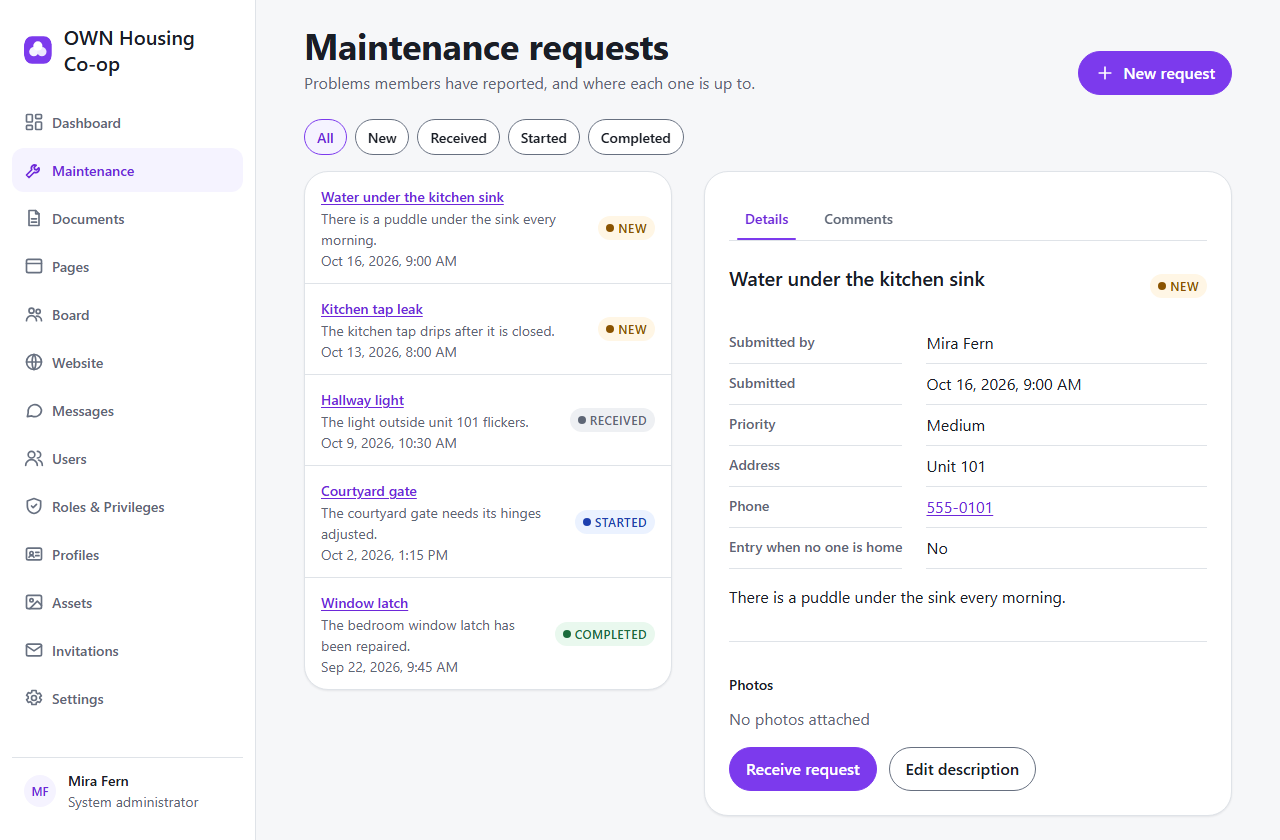
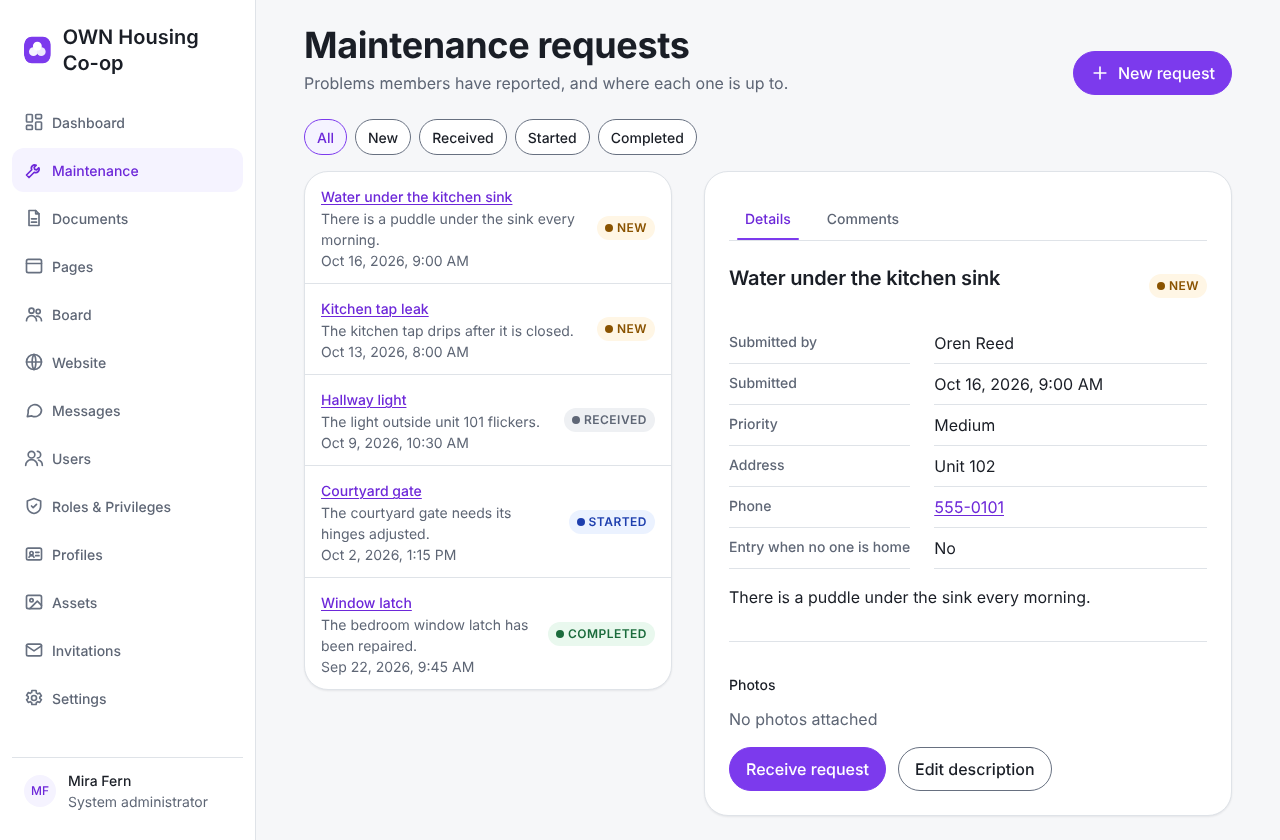
Rebuild journeys 01 and 02 on the admin member view
Claude-Session: https://claude.ai/code/session_01NbBQnG1jNvCqwuLyCCrvxd

diff --git a/docs/videos/journeys/01-submit-maintenance-request/slides.html b/docs/videos/journeys/01-submit-maintenance-request/slides.html
@@ -28,17 +28,17 @@
   </ol>
 </section>
 
-<section id="list" data-part="1" data-cue="Start on the Requests page.">
+<section id="list" data-part="1" data-cue="First, sign in on the co-op's members' site.">
   <div class="heading-row"><h2>1 · Tap “Requests”</h2></div>
   <div class="pics">
-    <figure><img class="shot h640" src="images/public-maintenance-360.png" alt="The member's Requests page on a phone, listing four requests with their status"><figcaption>Every request you sent, and where it is</figcaption></figure>
+    <figure><img class="shot h640" src="images/member-maintenance-360.png" alt="The member's Maintenance requests page on a phone, listing Bathroom fan is noisy, marked New, and Window latch, marked Completed"><figcaption>“Requests” on a phone, “Maintenance” on a computer</figcaption></figure>
   </div>
 </section>
 
-<section id="open" data-part="1" data-cue="To report something new, tap Create Request.">
-  <div class="heading-row"><h2>2 · Tap “Create Request”</h2></div>
+<section id="open" data-part="1" data-cue="To report something new, tap New request.">
+  <div class="heading-row"><h2>2 · Tap “New request”</h2></div>
   <div class="pics">
-    <figure><img class="shot h640" src="images/public-maintenance-create-360.png" alt="The empty Create New Request form on a phone"><figcaption>A short form opens</figcaption></figure>
+    <figure><img class="shot h640" src="images/member-maintenance-create-360.png" alt="The empty New maintenance request form on a phone"><figcaption>A short form opens</figcaption></figure>
   </div>
 </section>
 
@@ -48,30 +48,29 @@
     <ol class="steps">
       <li><span class="num">1</span>A title</li>
       <li><span class="num">2</span>Your own words</li>
-      <li><span class="num">3</span>How urgent, and what kind</li>
     </ol>
-    <figure><img class="shot h640" src="images/public-maintenance-create-filled-360.png" alt="The form filled in: title Water under the kitchen sink, a description, priority Medium and category General, with no photos yet"><figcaption>Plain words are fine</figcaption></figure>
+    <figure><img class="shot h640" src="images/member-maintenance-create-filled-360.png" alt="The form filled in: title Water under the kitchen sink and what is wrong, with no photos yet"><figcaption>Plain words are fine</figcaption></figure>
   </div>
 </section>
 
 <section id="photos" data-part="1" data-cue="If you like, add a photo or two.">
   <div class="heading-row"><h2>4 · Add a photo, if you like</h2></div>
   <div class="pics">
-    <figure><img class="shot h640" src="images/public-maintenance-create-photos-1280.png" alt="The form with one chosen photo, under-sink.jpg, and a Remove button"><figcaption>“Choose photos”, and “Remove” if one is wrong</figcaption></figure>
+    <figure><img class="shot h640" src="images/member-maintenance-create-photos-1280.png" alt="The form with one chosen photo, under-sink.jpg, and a Remove button"><figcaption>“Add photos”, and “Remove” if one is wrong</figcaption></figure>
   </div>
 </section>
 
-<section id="send" data-part="1" data-cue="When you are ready, tap Submit Request.">
-  <div class="heading-row"><h2>5 · Tap “Submit Request”</h2></div>
+<section id="send" data-part="1" data-cue="When you are ready, tap Send request.">
+  <div class="heading-row"><h2>5 · Tap “Send request”</h2></div>
   <div class="pics">
-    <figure><img class="shot h640" src="images/public-maintenance-create-sending-1280.png" alt="The filled-in form with its button showing Sending…"><figcaption>The button says “Sending…”</figcaption></figure>
+    <figure><img class="shot h640" src="images/member-maintenance-create-sending-1280.png" alt="The filled-in form with its button showing Sending…"><figcaption>The button says “Sending…”</figcaption></figure>
   </div>
 </section>
 
 <section id="new" data-part="2" data-cue="Your request now shows on your list, marked New.">
   <div class="heading-row"><h2>Your request, marked “New”</h2></div>
   <div class="pics">
-    <figure><img class="shot h640" src="images/public-maintenance-new-360.png" alt="The Requests page on a phone, New chosen, with Water under the kitchen sink at the top, marked New"><figcaption>Open it any time to follow along</figcaption></figure>
+    <figure><img class="shot h640" src="images/member-maintenance-new-360.png" alt="The Maintenance requests page on a phone with Water under the kitchen sink at the top, marked New"><figcaption>Open it any time to follow along</figcaption></figure>
   </div>
 </section>
 
@@ -86,7 +85,7 @@
   <h2>In short</h2>
   <ol class="steps">
     <li><span class="num">1</span>Tap “Requests”</li>
-    <li><span class="num">2</span>Tap “Create Request”</li>
+    <li><span class="num">2</span>Tap “New request”</li>
     <li><span class="num">3</span>Say what is wrong, add a photo, send</li>
   </ol>
 </section>

diff --git a/docs/videos/journeys/02-follow-a-maintenance-request/slides.html b/docs/videos/journeys/02-follow-a-maintenance-request/slides.html
@@ -28,38 +28,38 @@
   </ol>
 </section>
 
-<section id="labels" data-part="1" data-cue="Tap Requests at the bottom of the screen.">
+<section id="labels" data-part="1" data-cue="Tap Requests at the bottom of the screen, or Maintenance in the menu on a computer.">
   <div class="heading-row"><h2>1 · Tap “Requests”</h2></div>
   <div class="pics">
-    <figure><img class="shot h640" src="images/public-maintenance-360.png" alt="The Requests page on a phone, listing four requests labelled New, Received, Started and Done"><figcaption>New, Received, Started, Done</figcaption></figure>
+    <figure><img class="shot h640" src="images/member-maintenance-360.png" alt="The Maintenance requests page on a phone, listing Bathroom fan is noisy, labelled New, and Window latch, labelled Completed"><figcaption>New, Received, Started, Completed</figcaption></figure>
   </div>
 </section>
 
 <section id="filter" data-part="1" data-cue="To see only some of them">
   <div class="heading-row"><h2>2 · Show only some</h2></div>
   <div class="pics">
-    <figure><img class="shot h640" src="images/public-maintenance-started-360.png" alt="The Requests page with the Started button chosen, showing one request: Courtyard gate"><figcaption>Tap “Started” to see work under way</figcaption></figure>
+    <figure><img class="shot h640" src="images/member-maintenance-completed-360.png" alt="The Maintenance requests page with the Completed button chosen, showing one request: Window latch"><figcaption>Tap “Completed” to see finished repairs</figcaption></figure>
   </div>
 </section>
 
 <section id="open" data-part="2" data-cue="Tap a request to open it.">
   <div class="heading-row"><h2>3 · Tap a request</h2></div>
   <div class="pics">
-    <figure><img class="shot h640" src="images/public-maintenance-detail-360.png" alt="The Kitchen tap leak request open on a phone, labelled New and High, with a comment"><figcaption>Its title, its label, and your words</figcaption></figure>
+    <figure><img class="shot h640" src="images/member-maintenance-detail-1280.png" alt="The Bathroom fan is noisy request open, labelled New, with who sent it, when, the address, the phone number and the description"><figcaption>Its title, its label, and your words</figcaption></figure>
   </div>
 </section>
 
 <section id="comments" data-part="2" data-cue="Under Comments, you and the office can leave notes for each other.">
   <div class="heading-row"><h2>4 · Read and reply</h2></div>
   <div class="pics">
-    <figure><img class="shot h640" src="images/public-maintenance-detail-1280.png" alt="The open request showing a comment from Mira Fern: It drips most at night. I have put a bowl under it for now, with an Add a comment box and a Send button"><figcaption>Type in “Add a comment…”, then tap “Send”</figcaption></figure>
+    <figure><img class="shot h640" src="images/member-maintenance-comments-1280.png" alt="The Comments tab of the open request showing a comment from Dolores Nakamura: We will look at the fan on Thursday morning, with an Add a comment box and a Send button"><figcaption>Type in “Add a comment”, then tap “Send”</figcaption></figure>
   </div>
 </section>
 
 <section id="photos" data-part="3" data-cue="Any photos you added show under Photos.">
   <div class="heading-row"><h2>5 · Your photos</h2></div>
   <div class="pics">
-    <figure><img class="shot h640" src="images/public-maintenance-detail-photos-360.png" alt="The open request showing two photos of the leaking tap and sink, with an Add a photo button"><figcaption>Tap “Add a photo” to add another</figcaption></figure>
+    <figure><img class="shot h640" src="images/member-maintenance-detail-photos-1280.png" alt="The open request showing a photo under Photos, with an Add a photo button"><figcaption>Tap “Add a photo” to add another</figcaption></figure>
   </div>
 </section>
 

diff --git a/docs/videos/journeys/01-submit-maintenance-request/README.md b/docs/videos/journeys/01-submit-maintenance-request/README.md
@@ -1,6 +1,6 @@
 # Journey 01 · Submit a maintenance request
 
-> **Runtime:** about 1 min 45 s · **Audience:** members, many of whom barely use the web · **Prerequisites:** a member account
+> **Runtime:** about 1 min 50 s · **Audience:** members, many of whom barely use the web · **Prerequisites:** a member account
 
 **Video:** [01-submit-maintenance-request.mp4](01-submit-maintenance-request.mp4) · [Slides](slides.html) · **Audio:** [01-submit-maintenance-request.mp3](01-submit-maintenance-request.mp3) · [Transcript](script.md)
 
@@ -13,7 +13,7 @@ member through it, step by step, in plain words.
 
 By the end, the viewer can:
 
-- Find the Requests page and open the Create Request form.
+- Sign in on the members' site, find the Requests page and tap New request.
 - Fill in a request and, if she likes, add photos.
 - Tell that her request was sent and that the office sees it.
 
@@ -21,28 +21,31 @@ By the end, the viewer can:
 
 | File | What to show |
 | --- | --- |
-| `images/public-maintenance-360.png` | The member's Requests page on a phone |
-| `images/public-maintenance-create-360.png` | The empty Create New Request form |
-| `images/public-maintenance-create-filled-360.png` | The form filled in, before any photo |
-| `images/public-maintenance-create-photos-1280.png` | The form with a photo chosen |
-| `images/public-maintenance-create-sending-1280.png` | The button showing "Sending…" |
-| `images/public-maintenance-new-360.png` | Water under the kitchen sink on the list, marked New |
+| `images/member-maintenance-360.png` | The member's Requests page on a phone (admin site, member view) |
+| `images/member-maintenance-create-360.png` | The empty New maintenance request form |
+| `images/member-maintenance-create-filled-360.png` | The form filled in, before any photo |
+| `images/member-maintenance-create-photos-1280.png` | The form with a photo chosen |
+| `images/member-maintenance-create-sending-1280.png` | The button showing "Sending…" |
+| `images/member-maintenance-new-360.png` | Water under the kitchen sink on the list, marked New |
 | `images/admin-maintenance-detail-new-1280.png` | The office's view of Water under the kitchen sink, with Receive |
 
 All screens are static design mocks under `docs/mocks/`, captured by
 `tools/video-build/capture-mocks.py` from the list in `images/shots.json`.
-The mocks have no state for a request the member has just sent, so
-`shots.json` adds Water under the kitchen sink to the list and the office
-view with a short script before the screenshot.
+Members sign in on the admin site and see only the member areas (ADR 0012),
+so the member screens come from the `admin-member-*` mocks. The mocks have no
+state for a request the member has just sent, so `shots.json` fills in the
+form, renames the chosen photo, adds Water under the kitchen sink to the list,
+and puts Oren Reed of unit 102 on the office view, with a short script before
+each screenshot.
 
 ## Run sheet
 
 | Time | Segment | Content |
 | --- | --- | --- |
 | 00:00-00:17 | Welcome | Title; telling the office should be easy |
-| 00:17-01:10 | Send a request | Requests, Create Request, fill in, photos, Submit |
-| 01:10-01:30 | What happens next | Marked New; the office sees it and taps Receive |
-| 01:30-01:45 | In short | Three steps, thank you |
+| 00:17-01:14 | Send a request | Sign in, Requests, New request, fill in, photos, Send request |
+| 01:14-01:35 | What happens next | Marked New; the office sees it and taps Receive |
+| 01:35-01:50 | In short | Three steps, thank you |
 
 ## Demo commands
 

diff --git a/docs/videos/journeys/02-follow-a-maintenance-request/README.md b/docs/videos/journeys/02-follow-a-maintenance-request/README.md
@@ -1,6 +1,6 @@
 # Journey 02 · Follow a maintenance request
 
-> **Runtime:** about 1 min 38 s · **Audience:** members, many of whom barely use the web · **Prerequisites:** a member account with at least one request
+> **Runtime:** about 1 min 45 s · **Audience:** members, many of whom barely use the web · **Prerequisites:** a member account with at least one request
 
 **Video:** [02-follow-a-maintenance-request.mp4](02-follow-a-maintenance-request.mp4) · [Slides](slides.html) · **Audio:** [02-follow-a-maintenance-request.mp3](02-follow-a-maintenance-request.mp3) · [Transcript](script.md)
 
@@ -12,31 +12,37 @@ After a member reports a repair, she wants to know how it is going. This video s
 
 By the end, the viewer can:
 
-- Find her requests and read the New, Received, Started and Done labels.
-- Use the All, New, Started and Done buttons to show only some requests.
+- Find her requests and read the New, Received, Started and Completed labels.
+- Use the All, New, Received, Started and Completed buttons to show only some requests.
 - Open a request, read the comments, reply, and add a photo.
 
 ## Code / assets on screen
 
 | File | What to show |
 | --- | --- |
-| `images/public-maintenance-360.png` | The Requests page with four labelled requests |
-| `images/public-maintenance-started-360.png` | The list showing only Started requests |
-| `images/public-maintenance-detail-360.png`, `-1280.png` | An open request with a comment |
-| `images/public-maintenance-detail-photos-360.png` | The open request with two photos and Add a photo |
+| `images/member-maintenance-360.png` | The Requests page on a phone (admin site, member view) |
+| `images/member-maintenance-completed-360.png` | The list showing only Completed requests |
+| `images/member-maintenance-detail-1280.png` | An open request beside the list |
+| `images/member-maintenance-comments-1280.png` | The request's comments, with Add a comment and Send |
+| `images/member-maintenance-detail-photos-1280.png` | The open request with a photo and Add a photo |
 
 All screens are static design mocks under `docs/mocks/`, captured by
 `tools/video-build/capture-mocks.py` from the list in `images/shots.json`.
+Members sign in on the admin site and see only the member areas (ADR 0012),
+so the screens come from the `admin-member-maintenance` mocks. The mocks have
+no filtered state, so `shots.json` selects Completed and hides the other
+request with a short script before the screenshot. On a phone the open request
+sits below the list, so the open-request shots are taken at computer width.
 
 ## Run sheet
 
 | Time | Segment | Content |
 | --- | --- | --- |
 | 00:00-00:15 | Welcome | Title; it is all in one place |
-| 00:15-00:46 | Check the status | Labels; filter buttons |
-| 00:46-01:10 | Open a request | Open, read comments, reply |
-| 01:10-01:22 | Photos | Photos and Add a photo |
-| 01:22-01:38 | In short | Three steps, thank you |
+| 00:15-00:51 | Check the status | Labels; filter buttons |
+| 00:51-01:18 | Open a request | Open, read comments, reply |
+| 01:18-01:29 | Photos | Photos and Add a photo |
+| 01:29-01:45 | In short | Three steps, thank you |
 
 ## Demo commands
 

diff --git a/docs/videos/journeys/01-submit-maintenance-request/script.md b/docs/videos/journeys/01-submit-maintenance-request/script.md
@@ -12,23 +12,23 @@ A dripping tap, a light that flickers, a window that will not close. Telling the
 
 ## Send a request
 
-Start on the Requests page. Tap Requests at the bottom of the screen. Here you see every request you have sent, and where each one is.
+First, sign in on the co-op's members' site. Then start on the Requests page. On a phone, tap Requests at the bottom of the screen. On a computer, choose Maintenance in the menu. Here you see every request you have sent, and where each one is.
 
 [pause 2s]
 
-To report something new, tap Create Request. A short form opens.
+To report something new, tap New request. A short form opens.
 
 [pause 1s]
 
-Give it a title, such as water under the kitchen sink. Then say what is wrong in your own words. Choose how urgent it is, and what kind of problem it is.
+Give it a title, such as water under the kitchen sink. Then say what is wrong in your own words.
 
 [pause 2s]
 
-If you like, add a photo or two. Tap Choose photos and pick them from your phone. A photo often says more than words. If you choose the wrong one, tap Remove.
+If you like, add a photo or two. Tap Add photos and pick them from your phone. A photo often says more than words. If you choose the wrong one, tap Remove.
 
 [pause 2s]
 
-When you are ready, tap Submit Request. The button says Sending while it goes.
+When you are ready, tap Send request. The button says Sending while it goes.
 
 [pause 2s]
 
@@ -44,7 +44,7 @@ At the same moment, the office sees it on their screen, with your words and your
 
 ## In short
 
-So, in short. Tap Requests. Tap Create Request. Say what is wrong, add a photo if you like, and send. That is all.
+So, in short. Tap Requests. Tap New request. Say what is wrong, add a photo if you like, and send. That is all.
 
 [pause 1s]
 

diff --git a/docs/videos/journeys/02-follow-a-maintenance-request/script.md b/docs/videos/journeys/02-follow-a-maintenance-request/script.md
@@ -12,11 +12,11 @@ Once a request is sent, you will want to know how it is going. It is all in one 
 
 ## Check the status
 
-Tap Requests at the bottom of the screen. Each request shows a coloured label. New means the office has it. Received means they have seen it. Started means the work has begun. Done means it is fixed.
+Tap Requests at the bottom of the screen, or Maintenance in the menu on a computer. Each request shows a coloured label. New means the office has it. Received means they have seen it. Started means the work has begun. Completed means it is fixed.
 
 [pause 2s]
 
-To see only some of them, tap one of the buttons at the top: All, New, Started or Done. Tap Started, and only the requests being worked on are shown.
+To see only some of them, tap one of the buttons at the top: All, New, Received, Started or Completed. Tap Completed, and only the finished repairs are shown.
 
 [pause 2s]
 
@@ -26,7 +26,7 @@ Tap a request to open it. You see its title, its label, and what you wrote.
 
 [pause 2s]
 
-Under Comments, you and the office can leave notes for each other. Here Mira says it drips most at night.
+Under Comments, you and the office can leave notes for each other. Here Dolores, from the office, says they will look at the fan on Thursday morning.
 
 [pause 2s]
 
